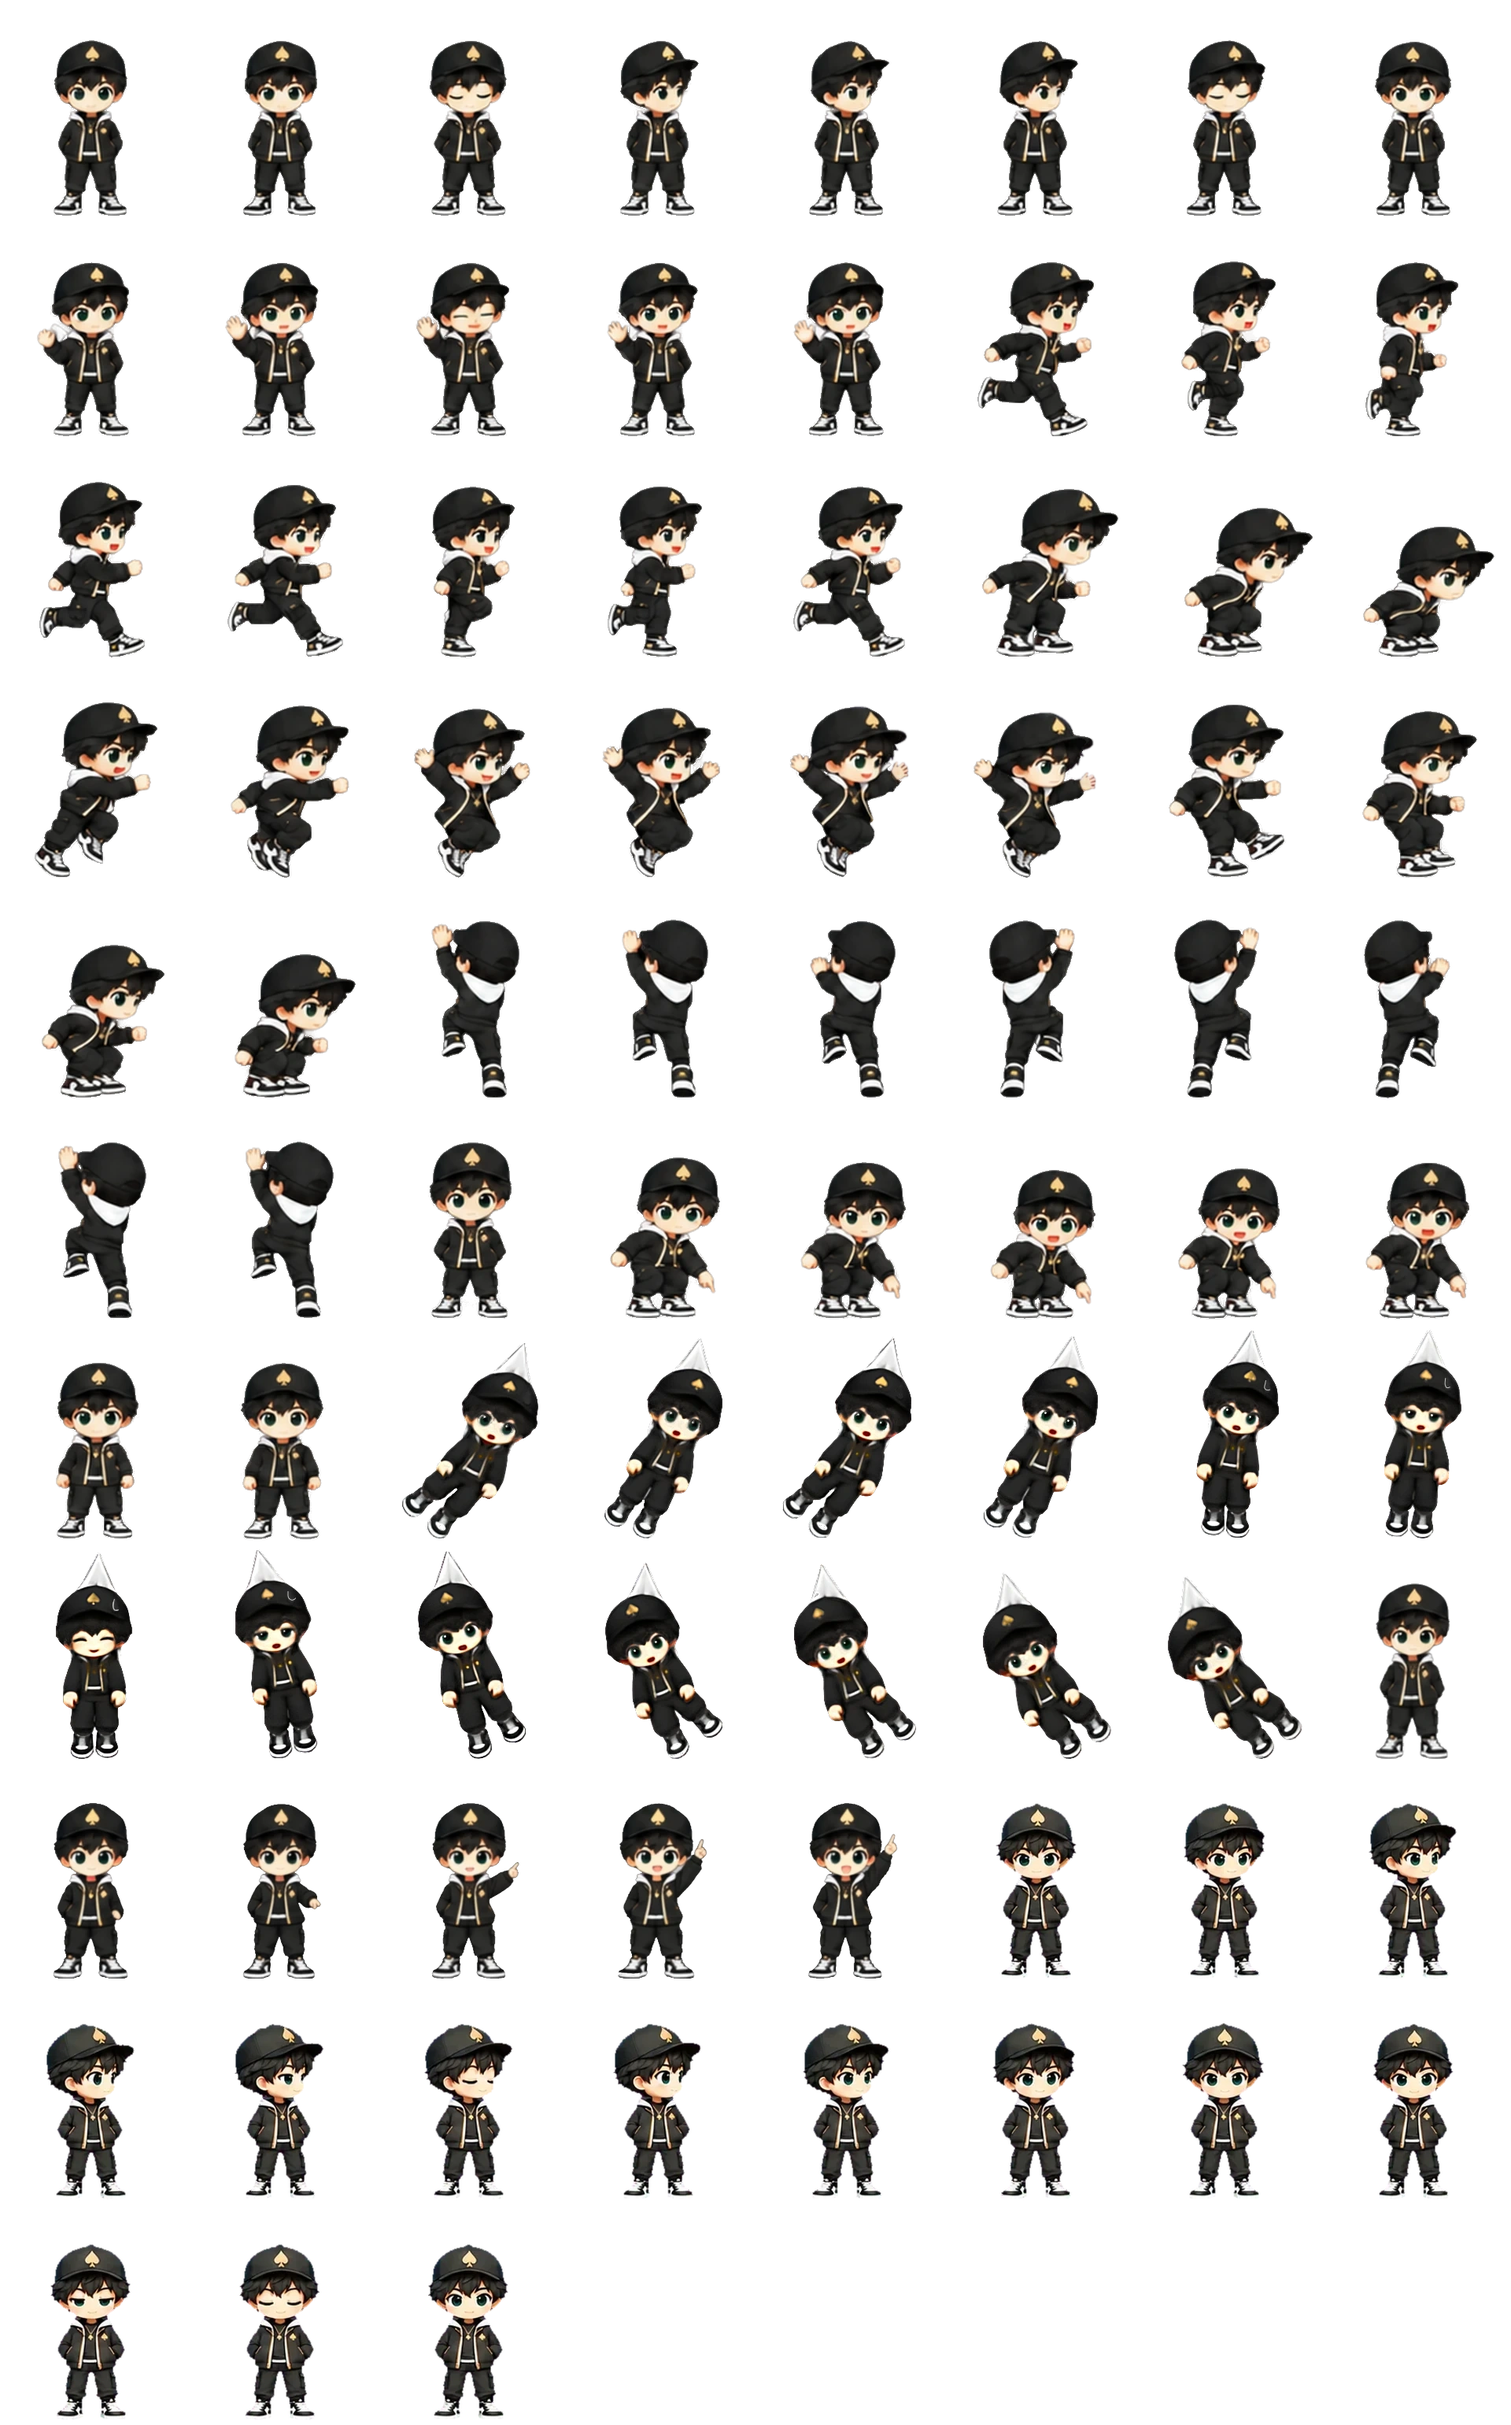
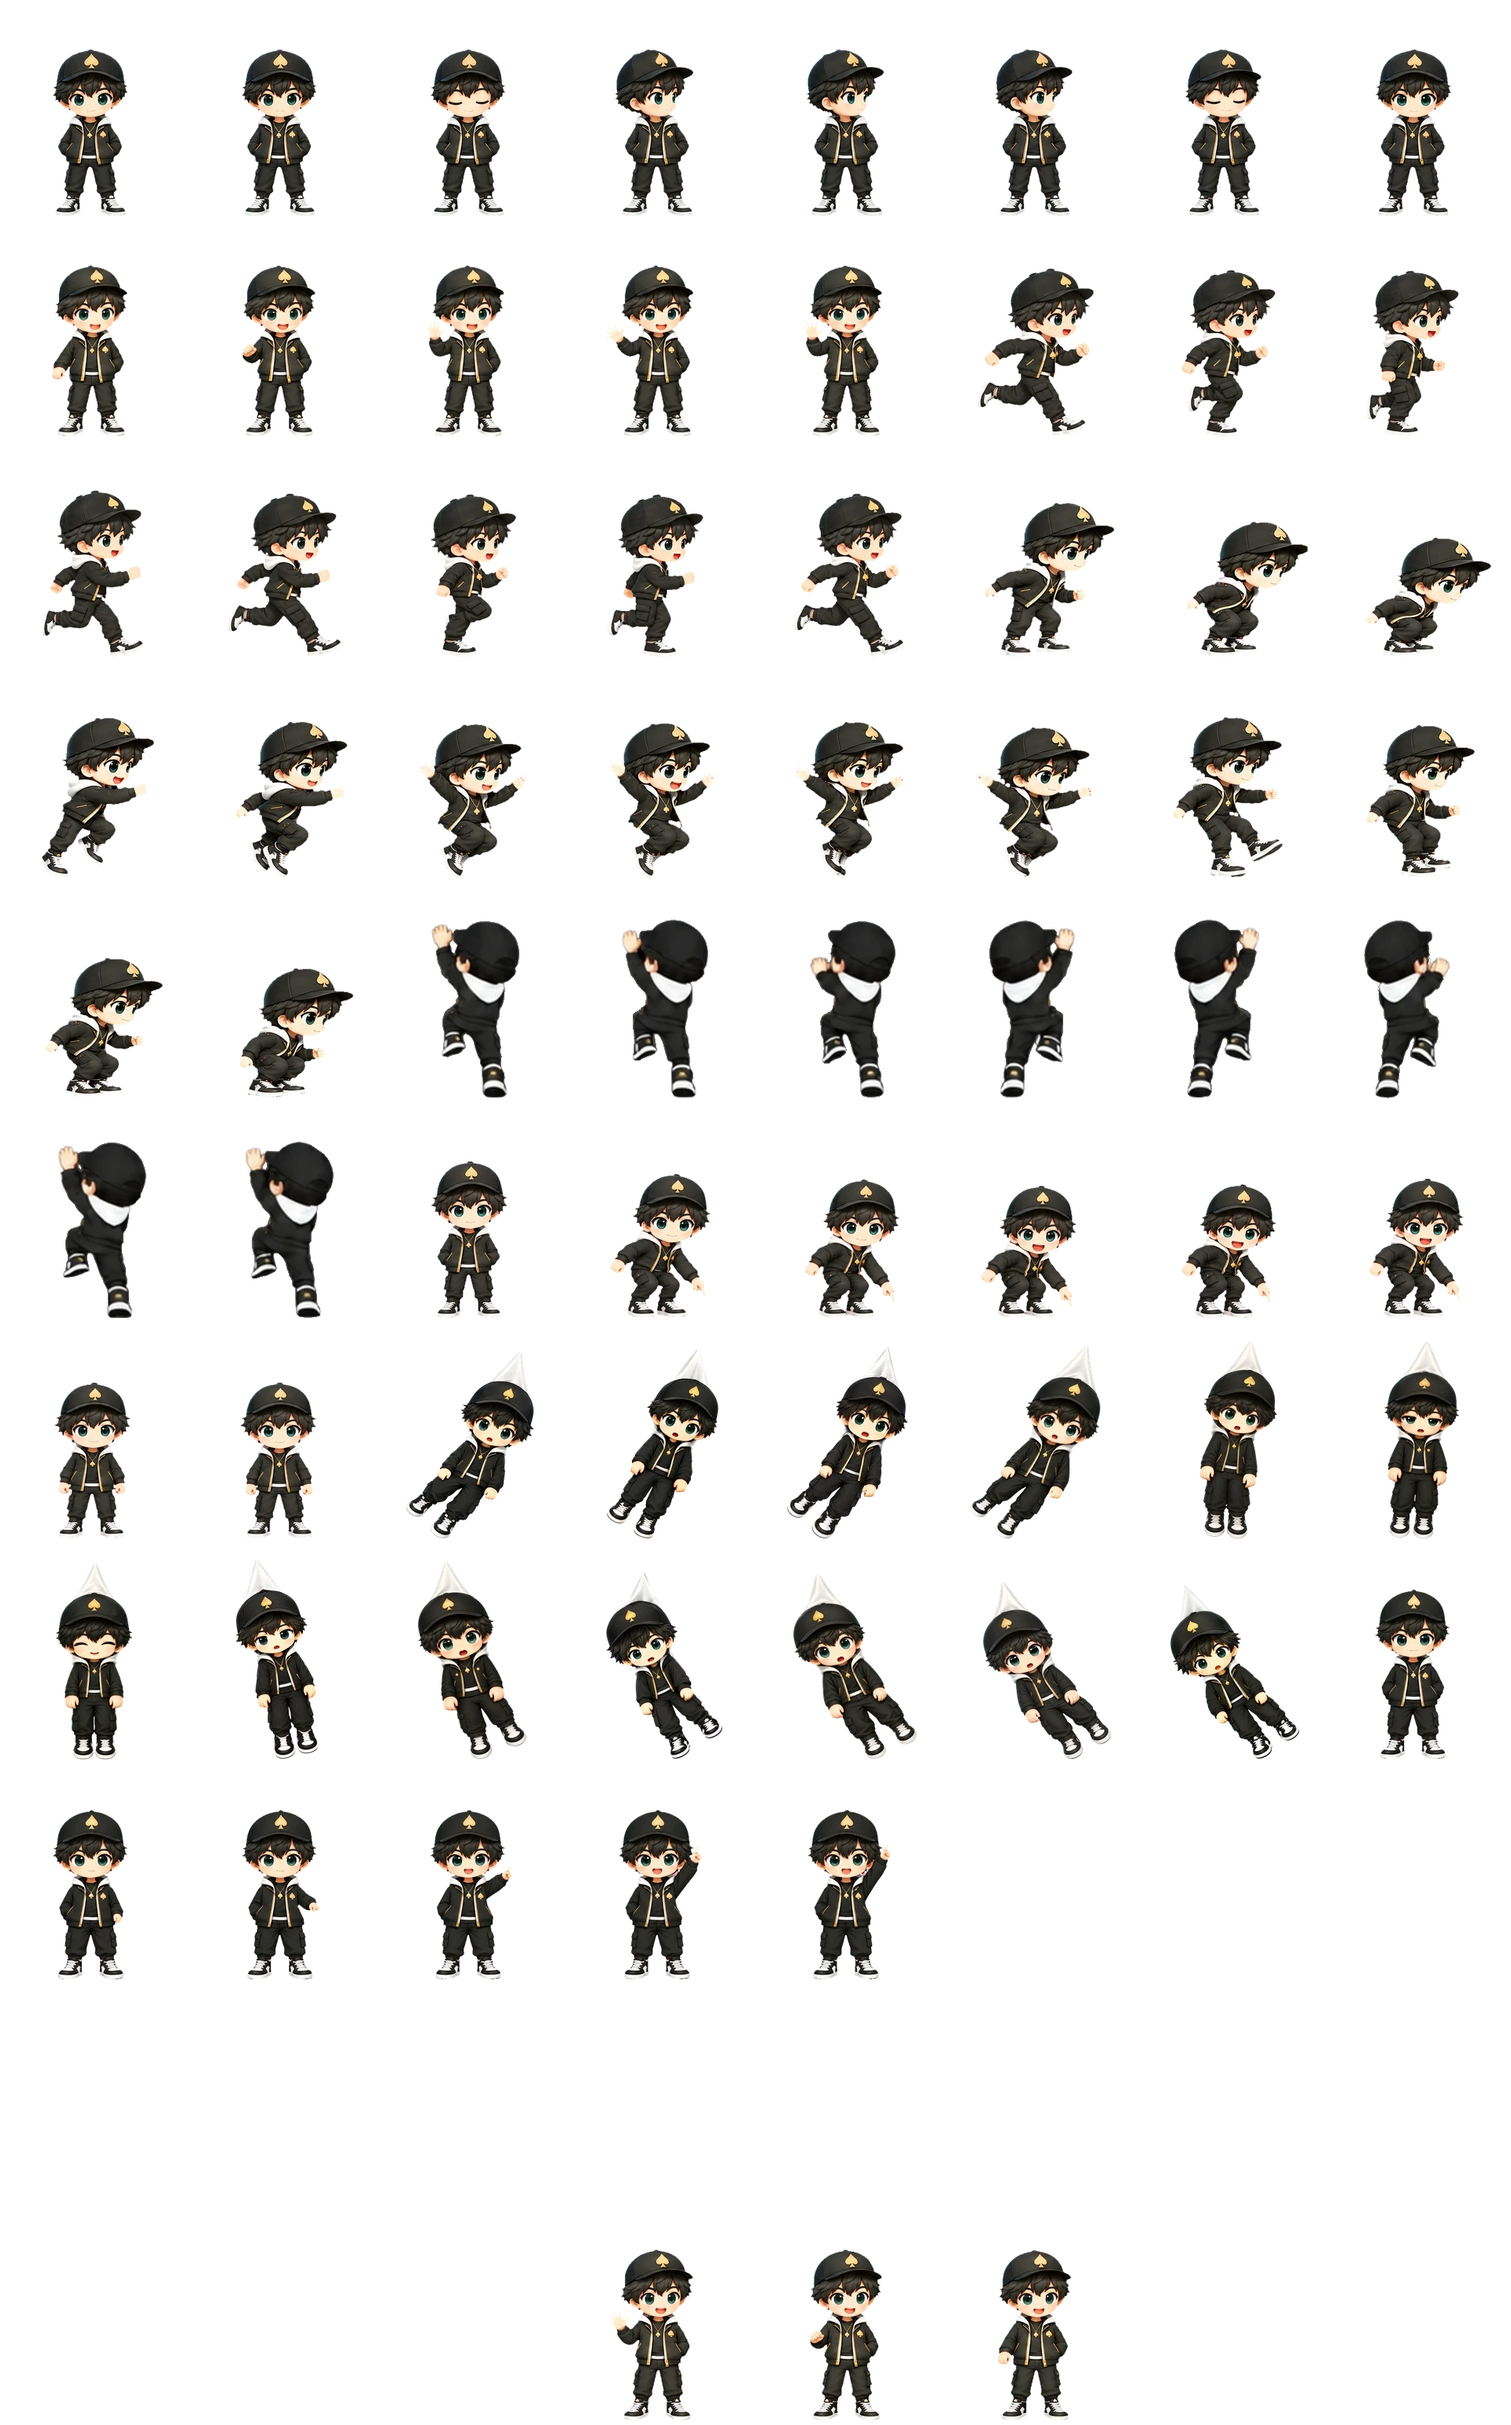
Painterly sprite set: new drag, idle, wave, run, jump, point and point up
- Sprite sheet: drag (cells 50-62), idle (0-7), wave (8-12 plus 83-85),
  run (13-20), jump (21-33), point (42-49) and point up (63-68) replaced
  with the new painterly frames; climb unchanged; retired 14-frame idle removed
- Heads matched to the idle across every animation, same 5% chibi squish
- Clip table: idle 8 frames at 3.8fps with glances on cells 3-5, wave 8 frames at 10fps
- Atlas v11, gate.js v14

diff --git a/companion.js b/companion.js
@@ -350,12 +350,11 @@ const SPRITE_W=CELL_W/2,SPRITE_H=CELL_H/2;   // CSS px; the canvas is 2x this
    either way (the front-on idle and wave) or must never be mirrored (the
    climb, which is drawn from behind). */
 const CLIPS={
-  /* Cells 69-82: the 14-frame idle (cells 0-7 are the old 8-frame one, kept
-     because the gate still stands him on cell 0). The two blinks are 74 (side-on)
-     and 81 (front-on); 70-77 are the head-turn frames. 6.6fps is 1.5x the
-     4.4fps that matches the old idle's 3.2s loop. */
-  idle  :{f:[69,70,71,72,73,74,75,76,77,78,79,80,81,82],fps:6.6,loop:true, dir:0},
-  wave  :{f:[8,9,10,11,12],          fps:9,  loop:true, dir:0},
+  /* Idle, cells 0-7: eight frames from the painterly sheet. 3 and 7 are the
+     blinks, 4-6 the side glances. 3.8fps gives a 2.1s loop. */
+  idle  :{f:[0,1,2,3,4,5,6,7],       fps:3.8,loop:true, dir:0},
+  /* Wave: eight frames (cells 8-12, then 83-85): hand up, wave, hand down. */
+  wave  :{f:[8,9,10,11,12,83,84,85], fps:10, loop:true, dir:0},
   /* A real eight-frame gait, played whole and in order at 11fps — the
      planted foot genuinely swings from ahead of the hips to behind them
      across the sheet. The rear shoe is missing from frame 6 as generated;
@@ -415,7 +414,7 @@ img.onload=()=>{
 img.onerror=()=>{pet.hidden=true;shadow.hidden=true;};
 /* WebP, not the PNG the build writes: 435KB against 1.8MB, with the alpha
    identical and colour within ~1.5/255 on average. Re-export after a rebuild. */
-img.src='assets/images/ace-atlas.webp?v=7';   // bump when the sheet changes: the page caches it
+img.src='assets/images/ace-atlas.webp?v=11';   // bump when the sheet changes: the page caches it
 
 function play(name){if(clipName!==name){clipName=name;clipStart=clock;}}
 /* Where a clip has got to. A looping clip wraps; a one-shot holds its last
@@ -437,7 +436,7 @@ function clipDone(){
    rest of the idle faces front and is never mirrored. Mirrored about his
    legs (LEGS_X in cell px, where every idle frame is aligned) rather than
    the cell centre, or he would hop ~5px sideways every glance. */
-const IDLE_LOOK=new Set([70,71,72,73,74,75,76,77]),LEGS_X=115;
+const IDLE_LOOK=new Set([3,4,5]),LEGS_X=115;
 function renderSprite(facing){
   if(!ready)return;
   const cell=clipFrame();

diff --git a/gate.js b/gate.js
@@ -241,7 +241,7 @@
     var fallback = setTimeout(function () { if (!scene) { settled = true; unlock(); } }, 4000);
     sceneMod.then(function (m) {
       if (settled) return;
-      scene = m.start(host, { reduced: false, closed: true, atlasUrl: 'assets/images/ace-atlas.webp?v=7' });
+      scene = m.start(host, { reduced: false, closed: true, atlasUrl: 'assets/images/ace-atlas.webp?v=11' });
       clearTimeout(fallback);
       // two frames: the gates are on screen before the dark ground gives way to them
       requestAnimationFrame(function () { requestAnimationFrame(function () {
@@ -290,7 +290,7 @@
       var fallback = setTimeout(function () { if (!scene) plain(); }, 4000);
       sceneMod.then(function (m) {
         if (shown) return;
-        scene = m.start(host, { reduced: REDUCED, atlasUrl: 'assets/images/ace-atlas.webp?v=7' });
+        scene = m.start(host, { reduced: REDUCED, atlasUrl: 'assets/images/ace-atlas.webp?v=11' });
         clearTimeout(fallback);
         // The page shows through until the gates close. On the home page that is the moment Little Ace lands back
         // on his button after the intro (main.js sets data-intro-done); anywhere else, after a moment. 25s at most.

diff --git a/aces-poker-night.html b/aces-poker-night.html
@@ -14,7 +14,7 @@
 <link rel="stylesheet" href="styles.css">
 <link rel="stylesheet" href="companion.css">
 <script>document.documentElement.classList.replace('no-js','js');try{var d=document.documentElement,s=localStorage;if(s.getItem('ace-type')==='serif')d.setAttribute('data-type','serif');if(s.getItem('ace-depth')==='flat')d.setAttribute('data-depth','flat')}catch(e){}</script>
-<script src="gate.js?v=10"></script>
+<script src="gate.js?v=14"></script>
 </head>
 <body>
 <a class="skip" href="#main">Skip to content</a>

diff --git a/aces-running-group.html b/aces-running-group.html
@@ -14,7 +14,7 @@
 <link rel="stylesheet" href="styles.css">
 <link rel="stylesheet" href="companion.css">
 <script>document.documentElement.classList.replace('no-js','js');try{var d=document.documentElement,s=localStorage;if(s.getItem('ace-type')==='serif')d.setAttribute('data-type','serif');if(s.getItem('ace-depth')==='flat')d.setAttribute('data-depth','flat')}catch(e){}</script>
-<script src="gate.js?v=10"></script>
+<script src="gate.js?v=14"></script>
 </head>
 <body>
 <a class="skip" href="#main">Skip to content</a>

diff --git a/advisory.html b/advisory.html
@@ -14,7 +14,7 @@
 <link rel="stylesheet" href="styles.css">
 <link rel="stylesheet" href="companion.css">
 <script>document.documentElement.classList.replace('no-js','js');try{var d=document.documentElement,s=localStorage;if(s.getItem('ace-type')==='serif')d.setAttribute('data-type','serif');if(s.getItem('ace-depth')==='flat')d.setAttribute('data-depth','flat')}catch(e){}</script>
-<script src="gate.js?v=10"></script>
+<script src="gate.js?v=14"></script>
 </head>
 <body>
 <a class="skip" href="#main">Skip to content</a>

diff --git a/all-aces-networking-events.html b/all-aces-networking-events.html
@@ -14,7 +14,7 @@
 <link rel="stylesheet" href="styles.css">
 <link rel="stylesheet" href="companion.css">
 <script>document.documentElement.classList.replace('no-js','js');try{var d=document.documentElement,s=localStorage;if(s.getItem('ace-type')==='serif')d.setAttribute('data-type','serif');if(s.getItem('ace-depth')==='flat')d.setAttribute('data-depth','flat')}catch(e){}</script>
-<script src="gate.js?v=10"></script>
+<script src="gate.js?v=14"></script>
 </head>
 <body>
 <a class="skip" href="#main">Skip to content</a>

diff --git a/contact.html b/contact.html
@@ -14,7 +14,7 @@
 <link rel="stylesheet" href="styles.css">
 <link rel="stylesheet" href="companion.css">
 <script>document.documentElement.classList.replace('no-js','js');try{var d=document.documentElement,s=localStorage;if(s.getItem('ace-type')==='serif')d.setAttribute('data-type','serif');if(s.getItem('ace-depth')==='flat')d.setAttribute('data-depth','flat')}catch(e){}</script>
-<script src="gate.js?v=10"></script>
+<script src="gate.js?v=14"></script>
 </head>
 <body>
 <a class="skip" href="#main">Skip to content</a>

diff --git a/group-activities.html b/group-activities.html
@@ -14,7 +14,7 @@
 <link rel="stylesheet" href="styles.css">
 <link rel="stylesheet" href="companion.css">
 <script>document.documentElement.classList.replace('no-js','js');try{var d=document.documentElement,s=localStorage;if(s.getItem('ace-type')==='serif')d.setAttribute('data-type','serif');if(s.getItem('ace-depth')==='flat')d.setAttribute('data-depth','flat')}catch(e){}</script>
-<script src="gate.js?v=10"></script>
+<script src="gate.js?v=14"></script>
 </head>
 <body>
 <a class="skip" href="#main">Skip to content</a>

diff --git a/mastermind-application.html b/mastermind-application.html
@@ -14,7 +14,7 @@
 <link rel="stylesheet" href="styles.css">
 <link rel="stylesheet" href="companion.css">
 <script>document.documentElement.classList.replace('no-js','js');try{var d=document.documentElement,s=localStorage;if(s.getItem('ace-type')==='serif')d.setAttribute('data-type','serif');if(s.getItem('ace-depth')==='flat')d.setAttribute('data-depth','flat')}catch(e){}</script>
-<script src="gate.js?v=10"></script>
+<script src="gate.js?v=14"></script>
 </head>
 <body>
 <a class="skip" href="#main">Skip to content</a>

diff --git a/mastermind-membership.html b/mastermind-membership.html
@@ -14,7 +14,7 @@
 <link rel="stylesheet" href="styles.css">
 <link rel="stylesheet" href="companion.css">
 <script>document.documentElement.classList.replace('no-js','js');try{var d=document.documentElement,s=localStorage;if(s.getItem('ace-type')==='serif')d.setAttribute('data-type','serif');if(s.getItem('ace-depth')==='flat')d.setAttribute('data-depth','flat')}catch(e){}</script>
-<script src="gate.js?v=10"></script>
+<script src="gate.js?v=14"></script>
 </head>
 <body>
 <a class="skip" href="#main">Skip to content</a>

diff --git a/premium-pickup-transport.html b/premium-pickup-transport.html
@@ -14,7 +14,7 @@
 <link rel="stylesheet" href="styles.css">
 <link rel="stylesheet" href="companion.css">
 <script>document.documentElement.classList.replace('no-js','js');try{var d=document.documentElement,s=localStorage;if(s.getItem('ace-type')==='serif')d.setAttribute('data-type','serif');if(s.getItem('ace-depth')==='flat')d.setAttribute('data-depth','flat')}catch(e){}</script>
-<script src="gate.js?v=10"></script>
+<script src="gate.js?v=14"></script>
 </head>
 <body>
 <a class="skip" href="#main">Skip to content</a>

diff --git a/private-working-session.html b/private-working-session.html
@@ -14,7 +14,7 @@
 <link rel="stylesheet" href="styles.css">
 <link rel="stylesheet" href="companion.css">
 <script>document.documentElement.classList.replace('no-js','js');try{var d=document.documentElement,s=localStorage;if(s.getItem('ace-type')==='serif')d.setAttribute('data-type','serif');if(s.getItem('ace-depth')==='flat')d.setAttribute('data-depth','flat')}catch(e){}</script>
-<script src="gate.js?v=10"></script>
+<script src="gate.js?v=14"></script>
 </head>
 <body>
 <a class="skip" href="#main">Skip to content</a>
